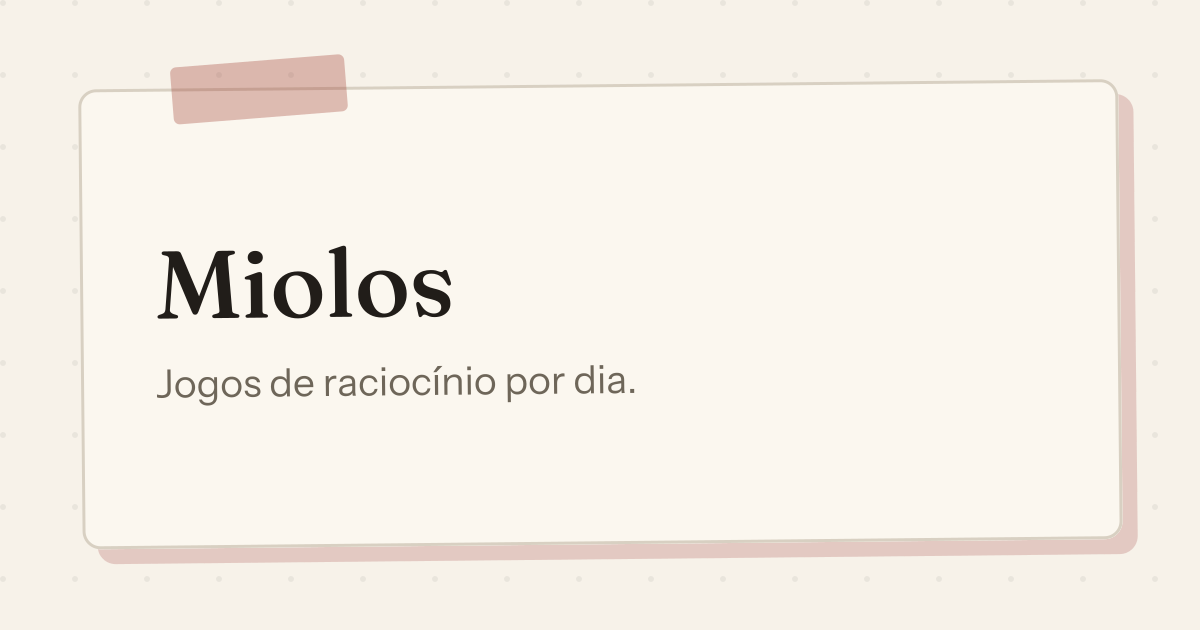
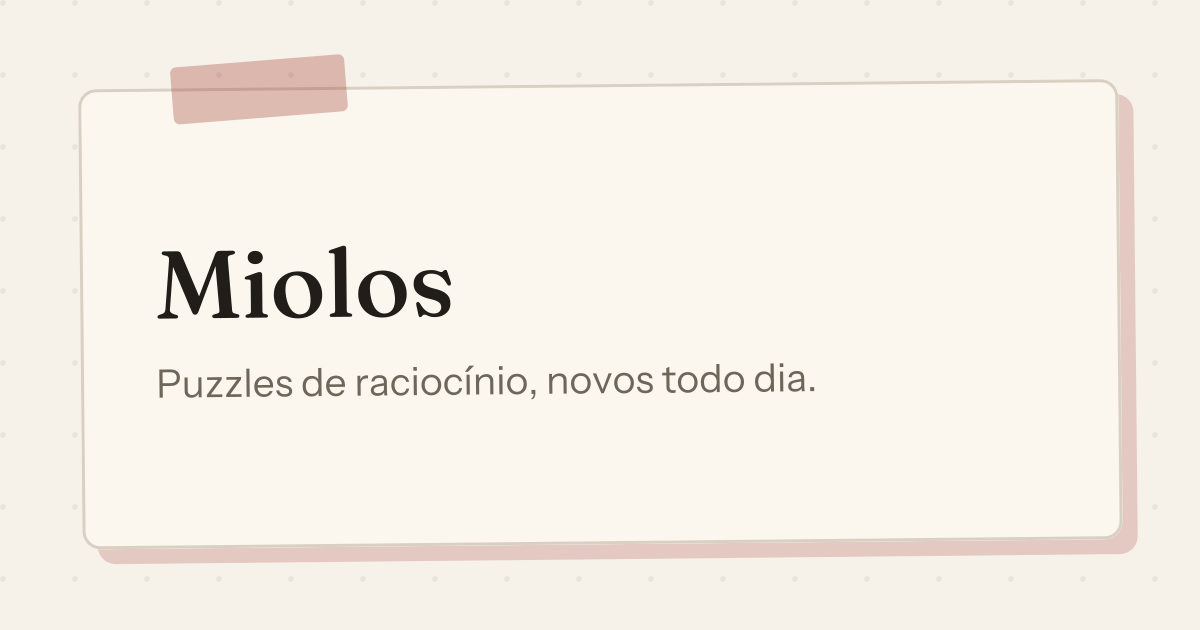
fix(web): hub copy says what is true and specific (#459)
A copy pass over what a visitor skims on Hoje and in link previews:
- tagline "puzzles de raciocínio, novos todo dia" (title, masthead, OG card)
- meta description leads with the game names and adds "Grátis e sem
  cadastro" (ADR-0005, ADR-0003); sign-off says "de cada jogo"
- daily link preview dropped its fixed "O", which read "O Cruzadinha"
  and "O Rainhas"
- attach heading names the missing recovery e-mail, true with or
  without Google
- Arquivo door says it does not count for the streak
- Binairo card states its rule

The root OG card PNG is regenerated from its builder.

Claude-Session: https://claude.ai/code/session_01DjzfF4kjTTHsShr12Q7NwY

Changed region(s): [[0.1233, 0.573, 0.6783, 0.6333]]

diff --git a/apps/web/src/i18n/messages.ts b/apps/web/src/i18n/messages.ts
@@ -6,9 +6,9 @@ import {
 } from "@miolos/core";
 
 const wordmark = "Miolos";
-const tagline = "jogos de raciocínio por dia";
+const tagline = "puzzles de raciocínio, novos todo dia";
 const taglineCapitalised = `${tagline.charAt(0).toUpperCase()}${tagline.slice(1)}`;
-const signOff = "Um puzzle novo de cada, todos os dias, igual para todo mundo.";
+const signOff = "Um puzzle novo de cada jogo, todo dia, igual para todo mundo.";
 
 const freePlayDescriptions: Partial<Record<Game, string>> = {
   termo: "Seis tentativas e uma palavra nova a cada partida.",
@@ -242,7 +242,7 @@ const cellAriaQueens = (
 export const messages = {
   meta: {
     title: `${wordmark} — ${tagline}`,
-    description: `${taglineCapitalised} — Termo, Cruzadinha, Sudoku, Nonogram, Binairo, Rainhas e Campo Minado. ${signOff}`,
+    description: `Termo, Cruzadinha, Sudoku, Nonogram, Binairo, Rainhas e Campo Minado. ${signOff} Grátis e sem cadastro.`,
   },
   brand: {
     wordmark,
@@ -279,7 +279,7 @@ export const messages = {
       archive: "Arquivo",
       archiveKicker: "Passado",
       archiveLead:
-        "Os puzzles dos dias que passaram, para jogar quando quiser.",
+        "Todos os puzzles desde o primeiro dia. Não conta na sequência.",
     },
     menu: {
       label: "Menu",
@@ -632,7 +632,7 @@ export const messages = {
     },
   },
   attach: {
-    invitation: "Sua sequência merece um plano B.",
+    invitation: "A sua sequência ainda não tem um e-mail para recuperá-la.",
     lead: "Vincule um e-mail e a sequência sobrevive a qualquer aparelho perdido ou limpo.",
     emailLabel: "Seu e-mail",
     recoveryLabel:
@@ -1311,7 +1311,7 @@ export const messages = {
     binairo: {
       kicker: "Lógica",
       name: "Binairo",
-      description: "Zeros e uns em perfeito equilíbrio.",
+      description: "Zeros e uns, nunca três iguais seguidos.",
       play: {
         title: "Binairo",
 

diff --git a/apps/web/test/hoje.smoke.test.tsx b/apps/web/test/hoje.smoke.test.tsx
@@ -418,9 +418,11 @@ describe("the hub masthead names the product and says what it is (T-WEB-S751)", 
     expect(screen.getByText(messages.brand.tagline)).toBeInTheDocument();
     expect(screen.getByText(messages.brand.signOff)).toBeInTheDocument();
 
-    expect(messages.meta.title).toBe("Miolos — jogos de raciocínio por dia");
+    expect(messages.meta.title).toBe(
+      "Miolos — puzzles de raciocínio, novos todo dia",
+    );
     expect(messages.meta.description).toBe(
-      "Jogos de raciocínio por dia — Termo, Cruzadinha, Sudoku, Nonogram, Binairo, Rainhas e Campo Minado. Um puzzle novo de cada, todos os dias, igual para todo mundo.",
+      "Termo, Cruzadinha, Sudoku, Nonogram, Binairo, Rainhas e Campo Minado. Um puzzle novo de cada jogo, todo dia, igual para todo mundo. Grátis e sem cadastro.",
     );
     expect(ogCopy.siteTagline.toLowerCase()).toBe(`${messages.brand.tagline}.`);
   });

diff --git a/apps/web/src/og/copy.ts b/apps/web/src/og/copy.ts
@@ -17,5 +17,5 @@ export const ogCopy = {
     `Cartão do ${messages.brand.wordmark} — ${messages.archive.title} de ${month}`,
   dailyTitle: (name: string) => `${name} de hoje — ${messages.brand.wordmark}`,
   dailyDescription: (name: string) =>
-    `O ${name} de hoje no ${messages.brand.wordmark}: um por dia, igual para todo mundo.`,
+    `${name} de hoje no ${messages.brand.wordmark}: um puzzle novo por dia, igual para todo mundo. Grátis e sem cadastro.`,
 };

diff --git a/NEXT-SESSION.md b/NEXT-SESSION.md
@@ -30,7 +30,7 @@ Nothing new. Sign in with Google is on. You answered *Recusar*, and the `/admin`
 
 **Free play offline reads Turbopack's output** (#426, ADR-0151): `public/sw.js` stores only `/modo-livre*` pages and `/_next/static/` assets, found by crawling chunk strings; after a Next upgrade, re-check offline play against a Vercel deployment, since local `next start` emits different chunk paths. **Turbo's cache for `packages/db` tests does not cover `apps/api/src`.** Run `pnpm test --force` before trusting a green gate after an `apps/api` change. **Dependabot npm PRs cannot be merged as opened** (no lockfile change). Land one hand-made bump, outside `minimumReleaseAge` (7 days). **A perfect day needs a lineup buffered before midnight (ADR-0087).** The buffer alert exists to prevent that. **Seven per-game medals is T-CORE-S70's maximum** and `termoGuessWins` is at its floor: an eighth game needs a quota decision first (ADR-0138). **Content is not a Turbo test input:** after editing `content/crossword/lexicon.tsv` or `content/termo/answers.csv`, run `generate:crossword`, `generate:termo` and `pnpm test --force`. Never delete a published answer from `answers.csv`: it would re-enter the free pool (ADR-0147).
 
-**CI scans `/admin` only as a non-admin**, so the config rows are never scanned there: the Salvar buttons composed `.switch` from a sheet that no longer had it and rendered unstyled until #435. Scan the admin state locally (a scratch route with a stubbed `fetch`, `next start`, `impeccable detect`). **A property test with no explicit timeout can go red on a slow CI runner.** Campo Minado's engine tests rode the 5000 ms default until #423's gate timed one out; they now carry ADR-0055 timeouts. A new generator test over 2000 ms on the gate gets its own timeout in the same PR. **A `vi.doMock` factory still awaiting `importActual` when its test ends is reused by the next test's import, even after `vi.resetModules()`**, so the next test never sees its own factory run: await the pending import in `afterEach` (`chunk.settling` in `conclusion-lazy.test.tsx`).
+**The root share card is a committed PNG rendered from `messages.brand.tagline`** (`app/opengraph-image.png`): after changing the tagline, regenerate it with `WRITE_SITE_CARD=1 npx vitest run test/og-image.node.test.ts` in `apps/web`, or T-WEB-S212 goes red. The hub copy pass (tagline, sign-off, meta description, Binairo card, Arquivo door, attach heading, the daily link preview) chose specific, true claims over slogans; "Grátis e sem cadastro" rests on ADR-0005 and ADR-0003. **CI scans `/admin` only as a non-admin**, so the config rows are never scanned there: the Salvar buttons composed `.switch` from a sheet that no longer had it and rendered unstyled until #435. Scan the admin state locally (a scratch route with a stubbed `fetch`, `next start`, `impeccable detect`). **A property test with no explicit timeout can go red on a slow CI runner.** Campo Minado's engine tests rode the 5000 ms default until #423's gate timed one out; they now carry ADR-0055 timeouts. A new generator test over 2000 ms on the gate gets its own timeout in the same PR. **A `vi.doMock` factory still awaiting `importActual` when its test ends is reused by the next test's import, even after `vi.resetModules()`**, so the next test never sees its own factory run: await the pending import in `afterEach` (`chunk.settling` in `conclusion-lazy.test.tsx`).
 
 **Never roll either app back past #330 part 3 once a 7×7 day exists** (ADR-0117): the old API answers a 49-cell completion 400 and sync drops it for good. Stop 7×7 with a forward PR that generates at 5. Before about 2026-10-22, check both production deployments are on the merge commit. Likewise a Rainhas record with `autoCrossed` fails the pre-#326 schema: sync pending completions before rolling `apps/web` back past #326. A pre-#368 client's `strictObject` rejects a Sudoku record that has `notes`, so an in-progress board with notes looks missing there and is overwritten on a rollback; solved records never carry notes. The same holds for `mistakes` (#369): a pre-#369 client rejects an open record that has it; closed records never carry it. **Once a Campo Minado row exists, never roll `apps/api` or `apps/web` back past #389 PR 2:** an old api answers every Campo Minado completion 400 and sync drops it for good. Stop the daily with a forward PR instead (out of `DAY_GAMES` and the cron's `COST_ASCENDING_GAMES`).
 
